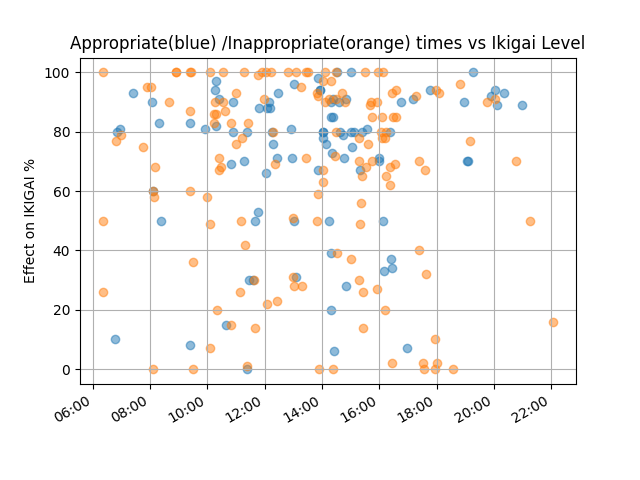
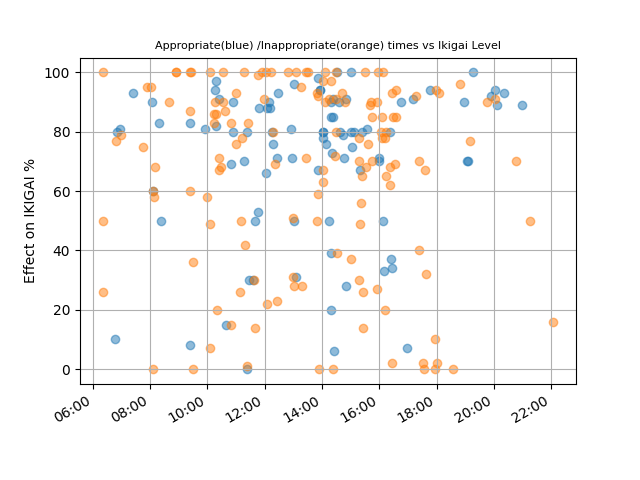
pseudo_final graphs

Changed region(s): [[0.0938, 0.0625, 0.9062, 0.125]]

diff --git a/main.py b/main.py
@@ -7,6 +7,7 @@ import random
 import seaborn as sns
 import matplotlib.dates as md
 
+
 def load_and_write_data(read_filepath, write_filepath):
     df = pd.read_excel(read_filepath)
     to_keep = ['StartDate', 'RecipientLastName', 'RecipientFirstName', 'Q2', 'Q3_1', 'Q16', 'Q4', 'Q7', 'Q8', 'Q9',
@@ -28,6 +29,10 @@ def load_and_write_data(read_filepath, write_filepath):
     df['Appropriate time to use IRIS'] = ""
     df['Inappropriate time to use IRIS'] = ""
     df['Activity and Occasion'] = ""
+
+    SMALL_SIZE = 8
+    MEDIUM_SIZE = 10
+    BIGGER_SIZE = 12
 
     def things_To_or_Not(dataframe):
         for row in dataframe.index:
@@ -76,6 +81,13 @@ def load_and_write_data(read_filepath, write_filepath):
         ax.scatter(ap_x_values, ap_y_values, alpha=0.5)
         ax.scatter(in_x_values, in_y_values, alpha=0.5)
         plt.grid()
+
+        #new changes
+        plt.rc('font', size=SMALL_SIZE)  # controls default text sizes
+        plt.rc('axes', titlesize=SMALL_SIZE)  # fontsize of the axes title
+        plt.rc('axes', labelsize=MEDIUM_SIZE)  # fontsize of the x and y labels
+        #new changes
+
         plt.gcf().autofmt_xdate()
         ax.xaxis.set_major_formatter(dates.DateFormatter('%H:%M'))
         plt.ylabel('Effect on IKIGAI %')
@@ -99,6 +111,11 @@ def load_and_write_data(read_filepath, write_filepath):
         plt.gcf().autofmt_xdate()
         ax.xaxis.set_major_formatter(dates.DateFormatter('%H:%M'))
         plt.grid()
+        # new changes
+        plt.rc('font', size=BIGGER_SIZE)  # controls default text sizes
+        plt.rc('axes', titlesize=BIGGER_SIZE)  # fontsize of the axes title
+        plt.rc('axes', labelsize=BIGGER_SIZE)  # fontsize of the x and y labels
+        # new changes
         plt.savefig('IRIS_activity_vs_time.png')
         plt.show()
 
@@ -182,12 +199,26 @@ def load_and_write_data(read_filepath, write_filepath):
         plt.ylabel('Number of times')
         plt.savefig('Iris use yes and no graph.png')
         plt.savefig('Persons and IRIS_use.png')
+
+        # new changes
+        plt.rc('font', size=BIGGER_SIZE)  # controls default text sizes
+        plt.rc('axes', titlesize=BIGGER_SIZE)  # fontsize of the axes title
+        plt.rc('axes', labelsize=BIGGER_SIZE)  # fontsize of the x and y labels
+        # new changes
+
         plt.show()
 
         plt.bar(no_person_freq_dict.keys(), no_person_freq_dict.values(), color='orange', width=0.3)
         plt.title('no IRIS use vs who you are with')
         plt.tick_params(rotation=45)
         plt.ylabel('Number of times')
+
+        # new changes
+        plt.rc('font', size=BIGGER_SIZE)  # controls default text sizes
+        plt.rc('axes', titlesize=BIGGER_SIZE)  # fontsize of the axes title
+        plt.rc('axes', labelsize=BIGGER_SIZE)  # fontsize of the x and y labels
+        # new changes
+
         plt.savefig('Persons and NO IRIS_use.png')
         plt.show()
 
@@ -229,6 +260,15 @@ def load_and_write_data(read_filepath, write_filepath):
                     plt.annotate(text, (person, activity))
 
         plt.grid()
+
+        #new changes
+        plt.rc('font', size=BIGGER_SIZE)  # controls default text sizes
+        plt.rc('axes', titlesize=BIGGER_SIZE)  # fontsize of the axes title
+        plt.rc('axes', labelsize=BIGGER_SIZE)  # fontsize of the x and y labels
+        plt.rc('xtick', labelsize=BIGGER_SIZE)  # fontsize of the tick labels
+        plt.rc('ytick', labelsize=BIGGER_SIZE)  # fontsize of the tick labels
+        #new changes
+
         plt.title('who are you with vs desired IRIS activity')
         plt.savefig('who are you with vs IRIS activity.png')
         plt.show()
